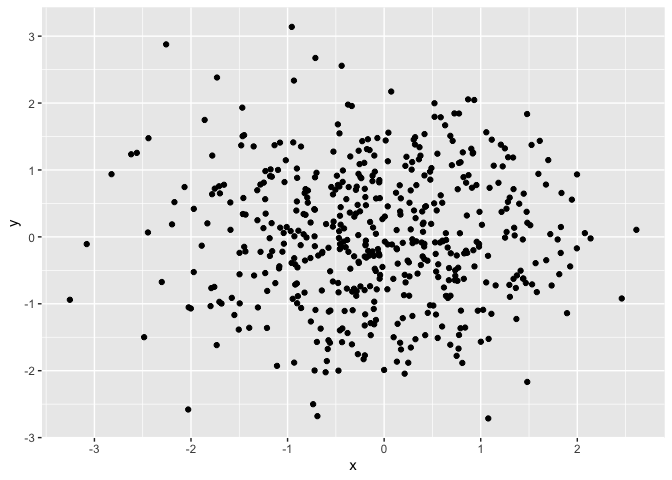
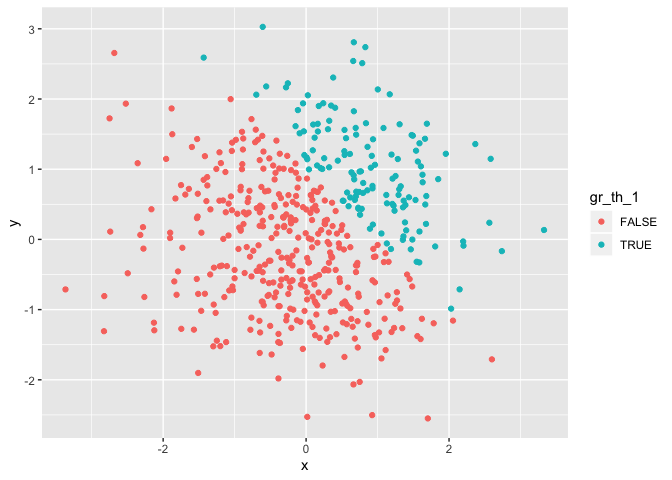
added color to the scatterplot using the logical variable

diff --git a/p8105_hw1_lk2761.md b/p8105_hw1_lk2761.md
@@ -25,13 +25,13 @@ Now I will take the mean of each variable in the data
 mean(pull(sample_df, sample))
 ```
 
-    ## [1] -0.3749201
+    ## [1] -0.7143422
 
 ``` r
 mean(pull(sample_df, gr_th_0)) 
 ```
 
-    ## [1] 0.5
+    ## [1] 0.125
 
 ``` r
 mean(pull(sample_df, vec_char_8))
@@ -99,8 +99,7 @@ gr_th_0_numeric = as.numeric(pull(sample_df, gr_th_0))
 gr_th_0_numeric*pull(sample_df, sample)
 ```
 
-    ## [1] 0.00000000 0.00000000 0.00000000 0.57774307 0.04998375 0.91294793
-    ## [7] 0.00000000 1.02694701
+    ## [1] 2.535118 0.000000 0.000000 0.000000 0.000000 0.000000 0.000000 0.000000
 
 ``` r
 gr_th_0_factor = as.factor(pull(sample_df, gr_th_0))
@@ -118,8 +117,8 @@ gr_th_0_numeric_2 = as.numeric(gr_th_0_factor_2)
 gr_th_0_numeric_2*pull(sample_df, sample)
 ```
 
-    ## [1] -2.61386332 -0.88260090 -1.55132347  1.15548614  0.09996751  1.82589586
-    ## [7] -0.51919517  2.05389402
+    ## [1]  5.0702353 -1.0050823 -0.6728647 -1.5504761 -0.9340206 -0.9870070
+    ## [7] -1.3527111 -1.7476938
 
 ## Problem 2
 
@@ -140,17 +139,17 @@ plot_df = tibble(
 
 The size of the dataset is 500 by 5.
 
-The mean of x is -0.0791335.
+The mean of x is 0.0114891.
 
-The median of x is -0.1029771.
+The median of x is 0.0395356.
 
-The standard deviation of x is 1.0049933.
+The standard deviation of x is 1.0351193.
 
 This code chunk makes a scatterplot of y
 vs. x.
 
 ``` r
-ggplot(plot_df, aes(x = x, y = y)) + geom_point()
+ggplot(plot_df, aes(x = x, y = y, color = gr_th_1)) + geom_point()
 ```
 
 ![](p8105_hw1_lk2761_files/figure-gfm/create%20scatterplot-1.png)<!-- -->
